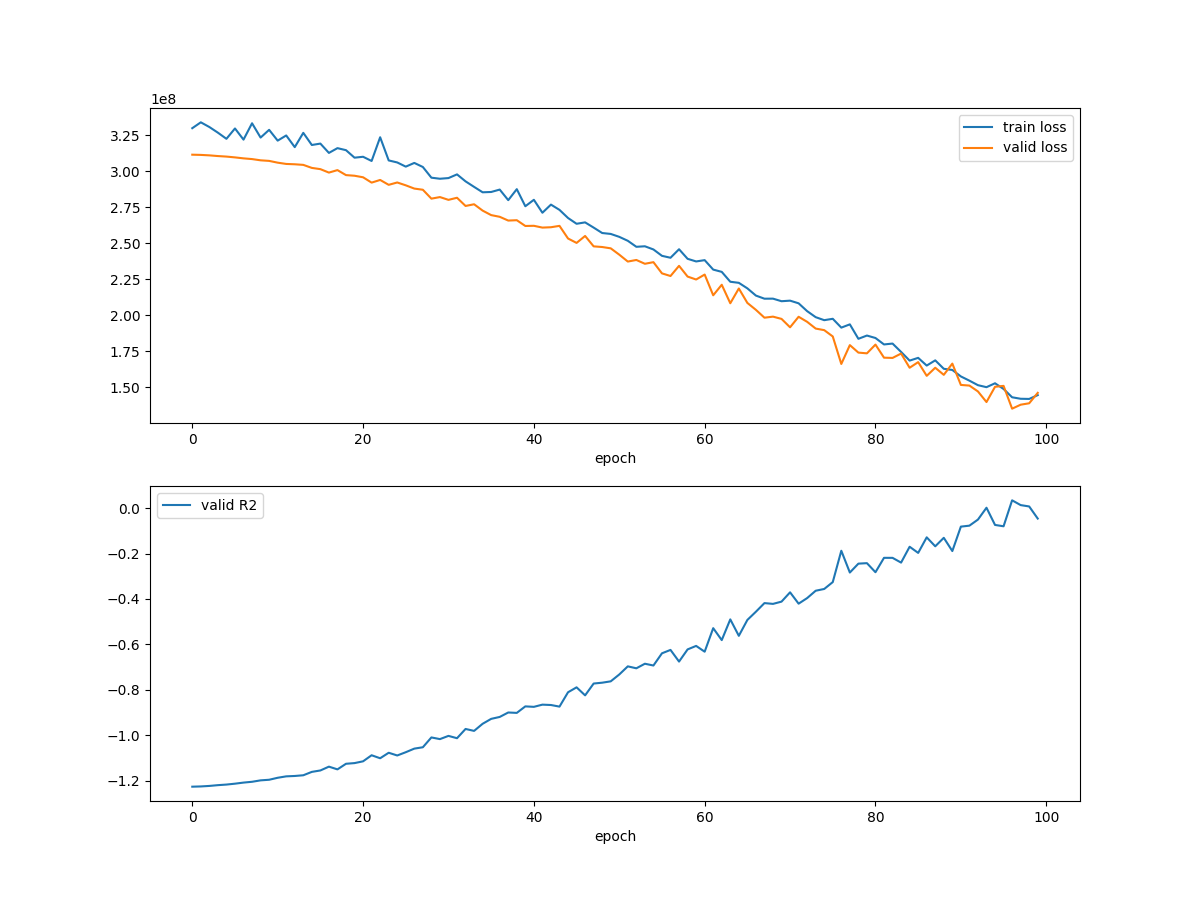
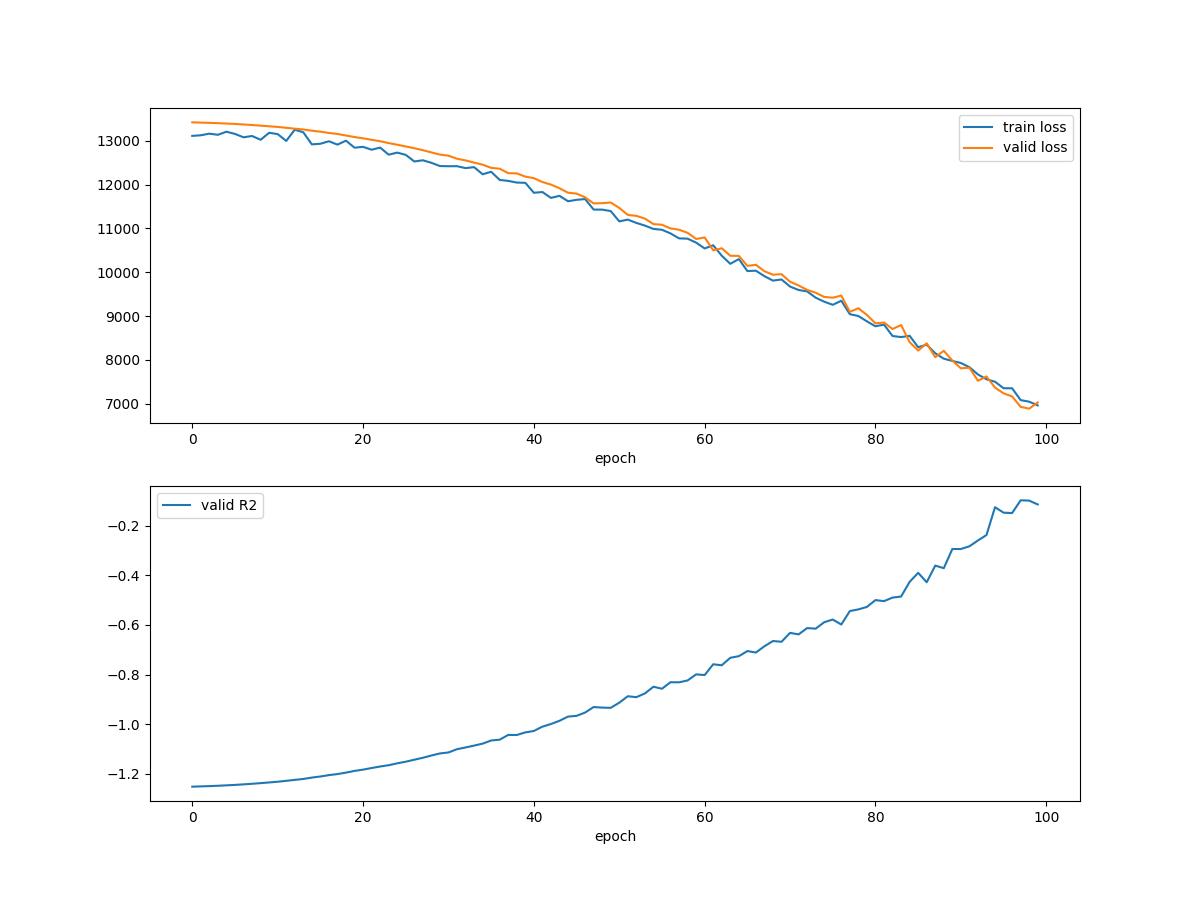
Change the loss on MAE and change plots

diff --git a/tasks/task_2/train.py b/tasks/task_2/train.py
@@ -1,7 +1,7 @@
 # here you write script for model training, e.g. loading data, initializing model and trainer, etc.
 # save results, checkpoints, etc. in the outputs directory, but dont push model weights to git, instead save them locally and add them to .gitignore
 from training.trainer import TrainerArgs, Trainer
-from torch.nn import MSELoss
+from torch.nn import MSELoss, L1Loss
 from torch.optim import Adam
 from models.regression import SimpleRegressionNet
 from sklearn.metrics import r2_score
@@ -28,7 +28,7 @@ def train(model, args, optimizer, train_data_loader, valid_data_loader):
 if __name__ == "__main__":
     
 
-    loss = MSELoss()
+    loss = L1Loss()
     device = torch.accelerator.current_accelerator().type if torch.accelerator.is_available() else 'cpu'
 
     args = TrainerArgs(
